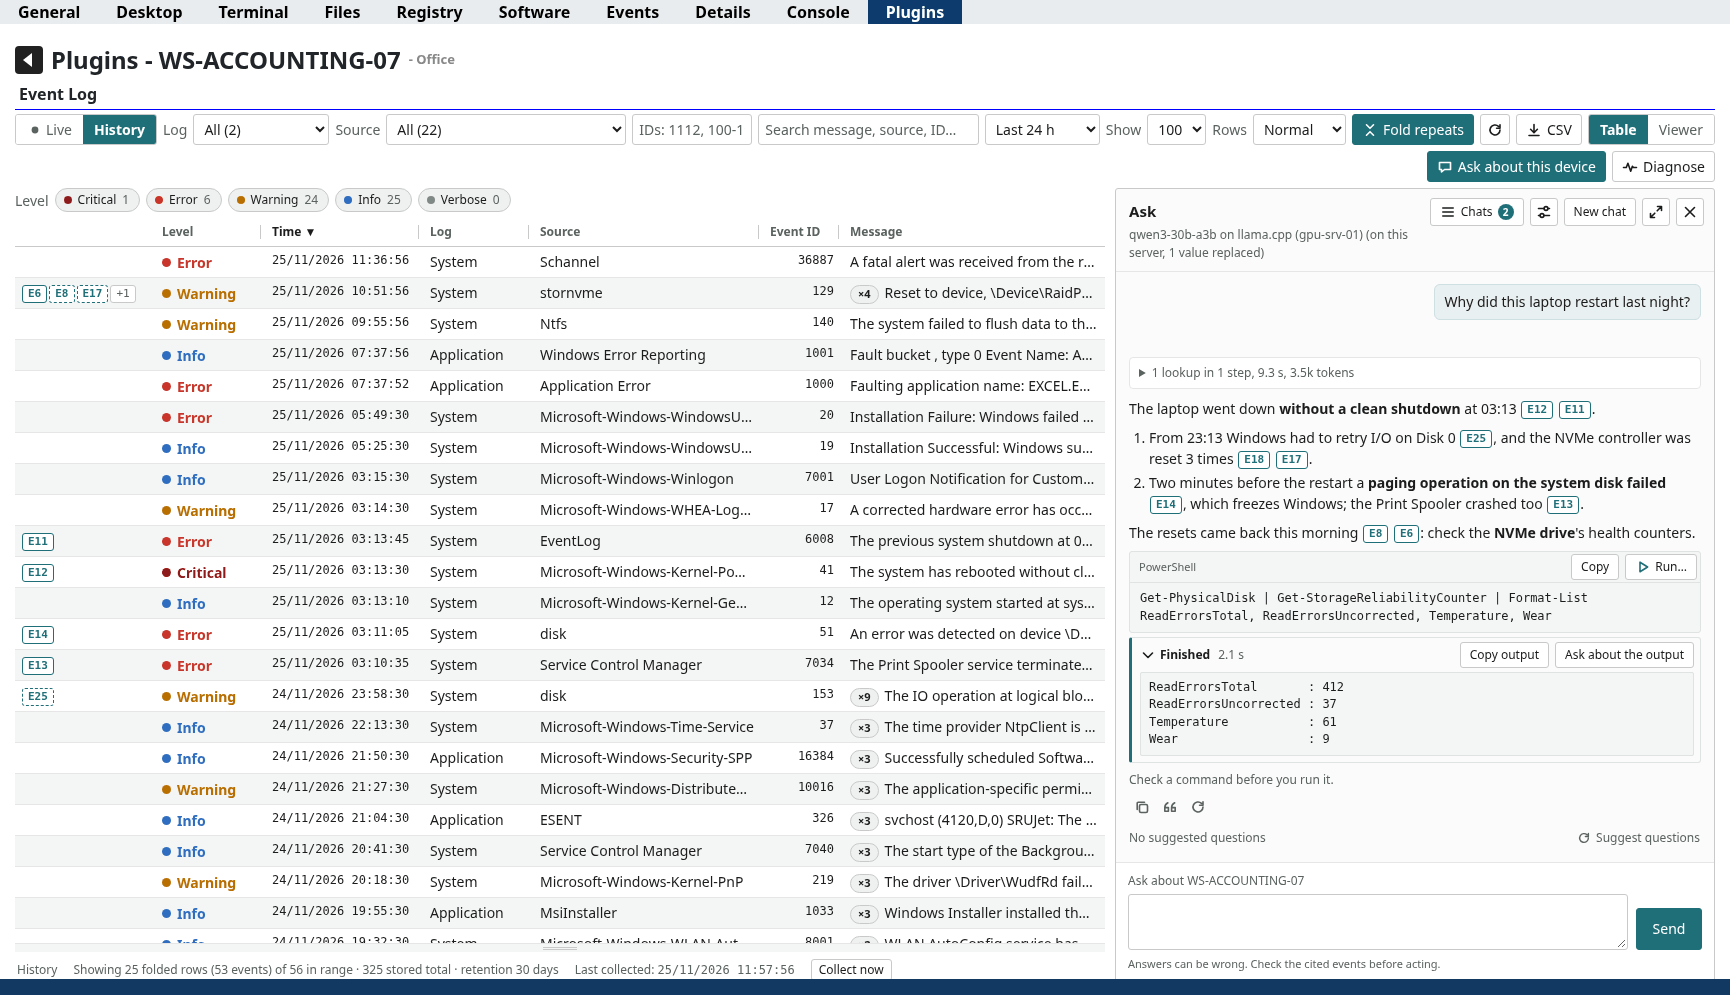
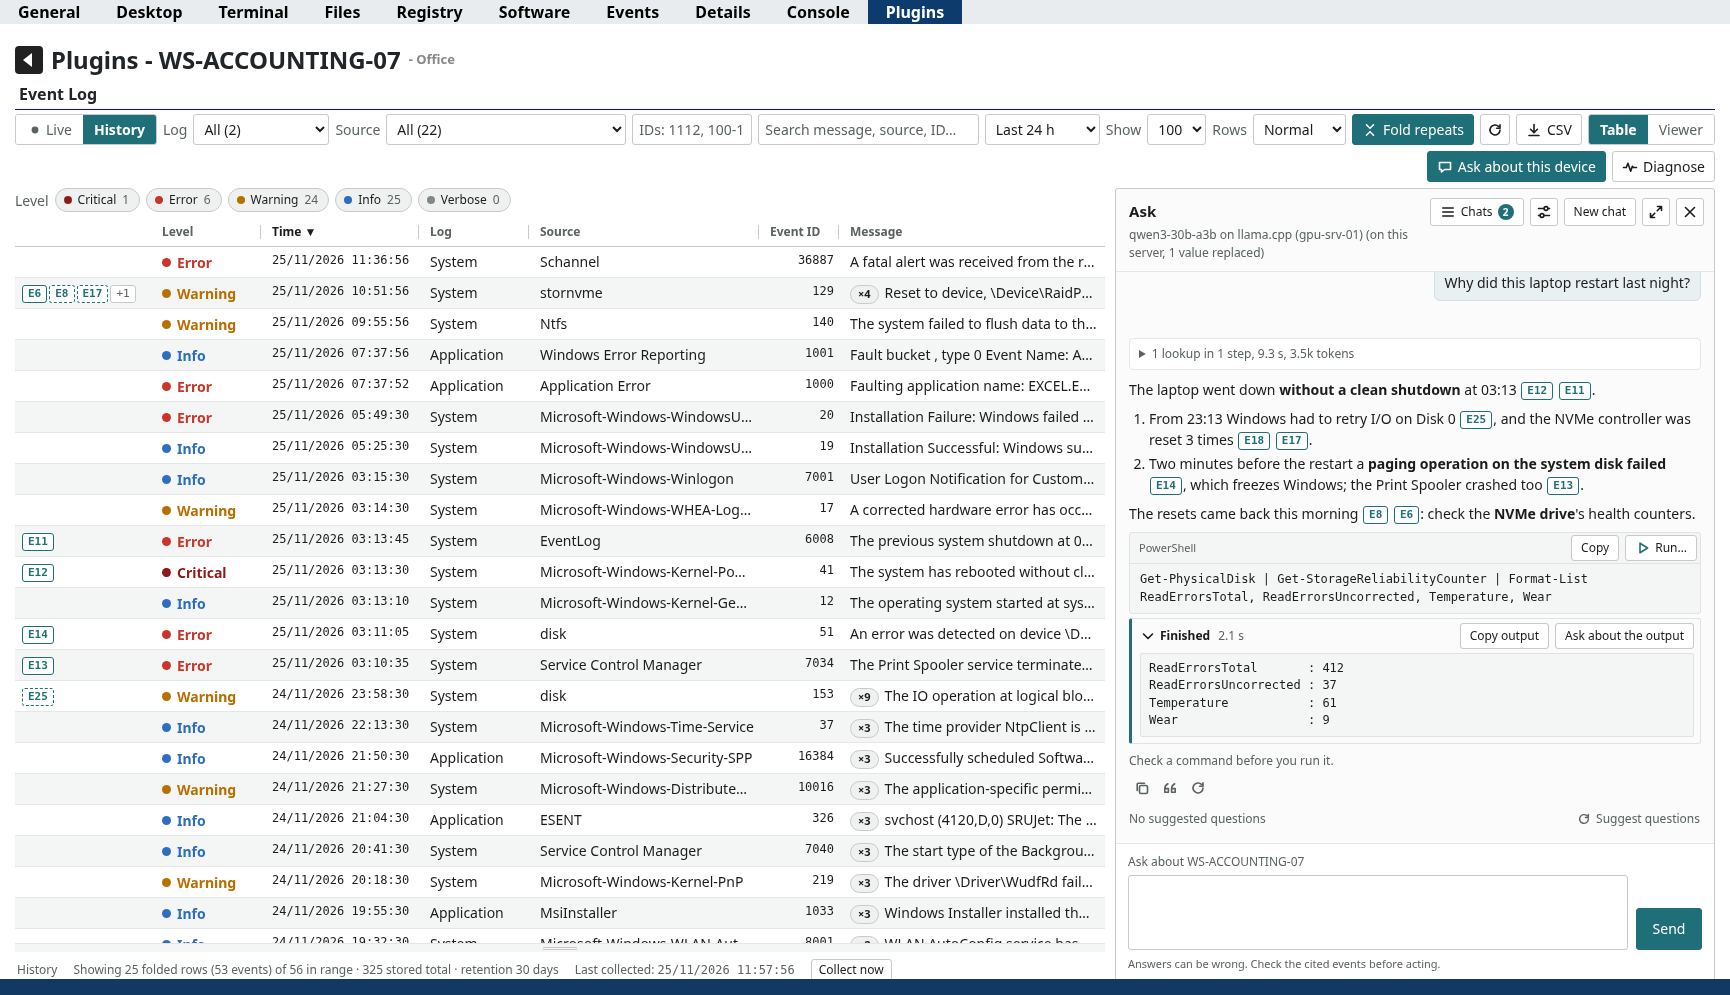
Assistant: answer field starts at three lines and grows with its text up to 40% of the panel (then scrolls), shrinks after Send; inline edit field the same; screenshots updated

Changed region(s): [[0.6555, 0.3427, 0.9988, 0.9035], [0.8116, 0.2804, 0.9988, 0.3116], [0.9052, 0.8101, 0.9676, 0.8724]]

diff --git a/ui_ai.js b/ui_ai.js
@@ -1600,6 +1600,7 @@ module.exports.attach = function (obj) {
         main.style.setProperty('--evl-ai-w', (st.ai.w || 400) + 'px');
         if (stack != was) ph.elFitHeight();
         ph.aiFitPanel();
+        ph.aiInFit();   // a new width wraps the text differently
     };
     // the Assistant is all this user has on this device: no event table, the panel is the page
     obj.aiOnly = function () {
@@ -1666,6 +1667,7 @@ module.exports.attach = function (obj) {
             g.setAttribute('aria-valuetext', h + ' pixels' + (uh ? '' : ', fits the window'));
         }
         var rb = Q('evlAiHReset'); if (rb) rb.hidden = !uh;
+        ph.aiInFit();   // the Reset button may have wrapped the line below the composer
     };
     // set the height and keep the conversation pinned to its end if it was there (streaming keeps following)
     obj.aiApplyH = function (h) {
@@ -1674,6 +1676,7 @@ module.exports.attach = function (obj) {
         var stick = log ? (log.scrollHeight - log.scrollTop - log.clientHeight < 48) : false;
         el.style.height = h + 'px';
         if (stick && log) log.scrollTop = log.scrollHeight;
+        pluginHandler.eventlog.aiInFit();   // its maximum depends on the panel's height
     };
     // Dragging: the bottom edge follows the pointer, measured from the panel's top where it is now (the page may scroll
     // meanwhile) and keeping where the grip was grabbed; nothing else sets the height until the pointer is released
@@ -1728,7 +1731,7 @@ module.exports.attach = function (obj) {
         try { g.setPointerCapture(ev.pointerId); } catch (e) { }
         g.classList.add('active');
         var x0 = ev.clientX, w0 = panel.getBoundingClientRect().width, mw = main.getBoundingClientRect().width, w = 0;
-        var mv = function (e) { w = Math.round(Math.max(300, Math.min(Math.min(760, mw - 380), w0 - (e.clientX - x0)))); main.style.setProperty('--evl-ai-w', w + 'px'); };
+        var mv = function (e) { w = Math.round(Math.max(300, Math.min(Math.min(760, mw - 380), w0 - (e.clientX - x0)))); main.style.setProperty('--evl-ai-w', w + 'px'); ph.aiInFit(); };
         var up = function () {
             g.removeEventListener('pointermove', mv); g.removeEventListener('pointerup', up); g.removeEventListener('pointercancel', up);
             g.classList.remove('active');
@@ -1848,6 +1851,7 @@ module.exports.attach = function (obj) {
         var top = log.scrollTop;
         log.setAttribute('aria-busy', ph.aiBusy(c) ? 'true' : 'false');
         log.innerHTML = ph.aiLogHtml(c);
+        var ed = Q('evlAiEd'); if (ed) ph.aiInFit(ed);
         ph.aiFuTitles(log);
         ph.aiCmdDress(log, c);
         var turns = log.querySelectorAll('.evlAiTurn'), lastEl = turns.length ? turns[turns.length - 1] : null;
@@ -1999,7 +2003,7 @@ module.exports.attach = function (obj) {
     obj.aiEditHtml = function (c, t) {
         var ph = pluginHandler.eventlog, a = ph.elState().ai, later = ph.aiLaterN(c, t), v = (a.actDraft != null) ? a.actDraft : t.q;
         return '<div class="evlAiQW edit" role=group aria-label="Edit the question"><label class=evlSr for=evlAiEd>Edit the question</label>' +
-               '<textarea id=evlAiEd class=evlAiEdIn rows=3 maxlength=4000 oninput="pluginHandler.eventlog.elState().ai.actDraft=String(this.value).slice(0,4000)" onkeydown="return pluginHandler.eventlog.aiEditKey(event,\'' + c.id + '\',' + t.n + ')">' + ph.aiEsc(v) + '</textarea>' +
+               '<textarea id=evlAiEd class=evlAiEdIn rows=3 maxlength=4000 oninput="pluginHandler.eventlog.elState().ai.actDraft=String(this.value).slice(0,4000);pluginHandler.eventlog.aiInFit(this)" onkeydown="return pluginHandler.eventlog.aiEditKey(event,\'' + c.id + '\',' + t.n + ')">' + ph.aiEsc(v) + '</textarea>' +
                '<p class=evlAiEdNote>' + (later ? 'Sending replaces its answer and removes the ' + (later == 1 ? 'later message' : later + ' later messages') + '.' : 'Sending replaces its answer.') + '</p>' +
                '<div class=evlAiActs><button class="evlBtn mini" onclick="return pluginHandler.eventlog.aiMsgCancel()">Cancel</button>' +
                '<button class="evlBtn mini on" onclick="return pluginHandler.eventlog.aiEditSave(\'' + c.id + '\',' + t.n + ')">Save &amp; send</button></div></div>';
@@ -2136,7 +2140,7 @@ module.exports.attach = function (obj) {
         if (!Q('evlAiIn')) {
             var acc = ph.elAccess || {};
             ft.innerHTML = '<div id=evlAiPeekSlot></div><label for=evlAiIn id=evlAiLbl class=evlAiLbl></label>' +
-                '<div class=evlAiRow><textarea id=evlAiIn rows=2 maxlength=4000 onkeydown="return pluginHandler.eventlog.aiKey(event)" oninput="pluginHandler.eventlog.aiDraft(this)"></textarea>' +
+                '<div class=evlAiRow><textarea id=evlAiIn rows=3 maxlength=4000 onkeydown="return pluginHandler.eventlog.aiKey(event)" oninput="pluginHandler.eventlog.aiDraft(this)"></textarea>' +
                 '<button id=evlAiSend class="evlBtn on" onclick="return pluginHandler.eventlog.aiSubmit()">Send</button></div>' +
                 '<div class=evlAiDisc><span>Answers can be wrong. Check the cited events before acting.' + ((function (r) { var q = (typeof r == 'number') ? r : ((r != null && typeof r.questions == 'number') ? r.questions : null); return (q != null && q <= 10) ? ' ' + q + ' questions left today.' : ''; })(acc.remaining)) + '</span>' +
                 '<button id=evlAiHReset class=evlLinkBtn hidden title="Fit the panel to the window again" onclick="return pluginHandler.eventlog.aiHGripReset()">Reset panel height</button></div>';
@@ -2144,6 +2148,7 @@ module.exports.attach = function (obj) {
         }
         var ta = Q('evlAiIn');
         if (!ta.value && a.draft) ta.value = a.draft;   // the field was re-created behind our back (another plugin re-parsed the page)
+        ph.aiInFit(ta);
         // the list, the Diagnose setup or a saved chat still loading: Send starts a new chat (aiAsk)
         var lb = Q('evlAiLbl'), lt0 = ((a.hist || a.diagSetup || a.opening) && !busy) ? 'New chat about ' : 'Ask about ';
         if (lb && lb.textContent != lt0 + name) lb.textContent = lt0 + name;
@@ -2165,6 +2170,32 @@ module.exports.attach = function (obj) {
         var ph = pluginHandler.eventlog;
         ph.elState().ai.draft = String(el.value || '').slice(0, 4000);
         ph.aiDraftStore(true);
+        ph.aiInFit(el);
+    };
+    // The composer and the question editor grow with their text from their rows (3 lines) to a maximum, then scroll:
+    // the composer up to 40% of the panel's height (at most 260 px) while the conversation keeps 100 px, the editor up
+    // to 260 px; never below the rows. The conversation keeps its place (or its end). No layout (hidden tab): nothing
+    // changes until the next call.
+    obj.aiInFit = function (ta) {
+        ta = ta || Q('evlAiIn');
+        if (!ta || !ta.offsetHeight) return false;
+        var comp = (ta.id == 'evlAiIn'), panel = Q('evlAi'), pnH = (comp && panel) ? panel.clientHeight : 0;
+        var log = Q('evlAiLog'), key = ta.value + '|' + ta.clientWidth + '|' + pnH + '|' + (log ? log.clientHeight : 0);
+        if (ta._evlFit === key && ta.style.height) return false;
+        var top = log ? log.scrollTop : 0, stick = log ? (log.scrollHeight - top - log.clientHeight < 48) : false, tsc = ta.scrollTop;
+        var max = pnH ? Math.min(260, Math.floor(pnH * 0.4)) : 260;
+        if (comp && log && log.clientHeight) max = Math.min(max, ta.offsetHeight + log.clientHeight - 100);   // the space both share now
+        ta.style.overflowY = 'hidden';
+        ta.style.height = 'auto';
+        var base = ta.offsetHeight, need = ta.scrollHeight + (ta.offsetHeight - ta.clientHeight);
+        max = Math.max(base, max);
+        var h = Math.max(base, Math.min(need, max));
+        ta.style.height = h + 'px';
+        ta.style.overflowY = (need > max) ? 'auto' : 'hidden';
+        ta._evlFit = ta.value + '|' + ta.clientWidth + '|' + pnH + '|' + (log ? log.clientHeight : 0);
+        ta.scrollTop = (ta.selectionEnd === ta.value.length) ? ta.scrollHeight : tsc;   // the cursor at the end stays in view
+        if (log) log.scrollTop = stick ? log.scrollHeight : top;
+        return true;
     };
     // the draft of this device into sessionStorage (later: after a pause in typing); an empty draft removes it
     obj.aiDraftStore = function (later) {
@@ -2201,7 +2232,7 @@ module.exports.attach = function (obj) {
         // loading, the question starts a new chat
         var shown = !a.hist && !a.diagSetup && !a.opening;
         a.draft = ''; ph.aiDraftStore();
-        var ta = Q('evlAiIn'); if (ta) ta.value = '';
+        var ta = Q('evlAiIn'); if (ta) { ta.value = ''; ph.aiInFit(ta); }
         a.hist = false; a.delAsk = null; a.diagSetup = false; a.act = null; a.opening = null;
         // a diagnosis chat takes questions once its diagnosis is there
         var chat = shown && ph.aiIsChat(c) && !(c.mode == 'diagnose' && c.turns[0].status != 'done');
@@ -2600,7 +2631,7 @@ module.exports.attach = function (obj) {
         a.open = true; a.diagSetup = false; a.hist = false;
         ph.aiRenderPanel();
         var ta = Q('evlAiIn');
-        if (ta) { ta.value = a.draft; ta.focus(); try { ta.setSelectionRange(ta.value.length, ta.value.length); } catch (e) { } }
+        if (ta) { ta.value = a.draft; ta.focus(); try { ta.setSelectionRange(ta.value.length, ta.value.length); } catch (e) { } ph.aiInFit(ta); }
         return false;
     };
 
@@ -3438,7 +3469,7 @@ module.exports.attach = function (obj) {
 @media (hover: none), (max-width: 700px) { #pluginEventLog .evlAiMsgActs { opacity:1; } }
 #pluginEventLog .evlAiMsgActs.a { margin-top:-4px; }
 #pluginEventLog .evlAiQW.edit { align-self:stretch; max-width:none; align-items:stretch; gap:6px; }
-#pluginEventLog .evlAiEdIn { font:inherit; border:1px solid var(--evl-acc); background:var(--evl-input); color:var(--evl-ink); border-radius:6px; padding:7px 10px; line-height:1.45; resize:vertical; min-height:60px; max-height:260px; box-sizing:border-box; width:100%; }
+#pluginEventLog .evlAiEdIn { font:inherit; border:1px solid var(--evl-acc); background:var(--evl-input); color:var(--evl-ink); border-radius:6px; padding:7px 10px; line-height:1.45; resize:none; overflow-y:hidden; min-height:60px; max-height:260px; box-sizing:border-box; width:100%; }
 #pluginEventLog .evlAiEdIn:focus-visible { outline:2px solid var(--evl-acc); outline-offset:1px; }
 #pluginEventLog .evlAiEdNote { margin:0; font-size:12px; color:var(--evl-muted); }
 #pluginEventLog .evlAiQW.edit .evlAiActs { justify-content:flex-end; }
@@ -3581,7 +3612,7 @@ body.night #pluginEventLog .evlAiPop { box-shadow:0 10px 28px rgba(0,0,0,.75); b
 #pluginEventLog .evlAiFt { flex:none; border-top:1px solid var(--evl-line2); padding:9px 12px 8px; background:var(--evl-bg); }
 #pluginEventLog .evlAiLbl { display:block; font-size:12px; color:var(--evl-muted); margin:0 0 4px; font-weight:normal; }
 #pluginEventLog .evlAiRow { display:flex; gap:8px; align-items:flex-end; }
-#pluginEventLog .evlAiRow textarea { flex:1 1 auto; min-width:0; font:inherit; border:1px solid var(--evl-line); background:var(--evl-input); color:var(--evl-ink); border-radius:3px; padding:6px 8px; resize:vertical; min-height:42px; max-height:220px; box-sizing:border-box; }
+#pluginEventLog .evlAiRow textarea { flex:1 1 auto; min-width:0; font:inherit; border:1px solid var(--evl-line); background:var(--evl-input); color:var(--evl-ink); border-radius:3px; padding:6px 8px; line-height:1.45; resize:none; overflow-y:hidden; min-height:42px; max-height:260px; box-sizing:border-box; }
 #pluginEventLog .evlAiRow textarea:focus-visible { outline:2px solid var(--evl-acc); outline-offset:-1px; }
 #pluginEventLog .evlAiRow .evlBtn { min-height:42px; min-width:66px; }
 #pluginEventLog .evlAiDisc { font-size:11px; color:var(--evl-muted); margin-top:6px; line-height:1.4; display:flex; align-items:baseline; gap:10px; }
@@ -3879,7 +3910,7 @@ body.night #evlAiDlg {
         'aiTurnHtml', 'aiDoneBody',
         'aiCanEdit', 'aiLaterN', 'aiMsgIndex', 'aiActBtn', 'aiQActsHtml', 'aiAActsHtml', 'aiEditHtml', 'aiConfirmHtml', 'aiTurnOf', 'aiMsgAct', 'aiMsgCancel', 'aiMsgYes',
         'aiEditSave', 'aiEditKey', 'aiTurnsCut', 'aiMsgRun', 'onAiChatEdited',
-        'aiRenderComposer', 'aiKey', 'aiDraft', 'aiDraftStore', 'aiSubmit', 'aiAsk', 'aiFollow', 'aiNewChat', 'aiPrefill', 'aiQuoteSync', 'aiQuoteSel', 'aiQuoteInsert',
+        'aiRenderComposer', 'aiKey', 'aiDraft', 'aiInFit', 'aiDraftStore', 'aiSubmit', 'aiAsk', 'aiFollow', 'aiNewChat', 'aiPrefill', 'aiQuoteSync', 'aiQuoteSel', 'aiQuoteInsert',
         'aiFuOpen', 'aiFuHtml', 'aiFuTitles', 'aiFuFocus', 'aiFuToggle', 'aiFuGen', 'onAiFollowups', 'aiFuFail',
         'aiGenInfo', 'aiGenModel', 'aiGenThinkOf', 'aiGenClean', 'aiGenOut', 'aiGenGet', 'aiGenSet', 'aiGenWord', 'aiGenTag', 'aiGenToggle', 'aiGenClose', 'aiGenOutside', 'aiGenKey', 'aiGenBlur',
         'aiGenHtml', 'aiGenRender', 'aiGenPlace', 'aiGenSync', 'aiGenThink', 'aiGenPick', 'aiGenTemp', 'aiGenTempReset',

diff --git a/test/ui-ai.test.js b/test/ui-ai.test.js
@@ -1873,6 +1873,107 @@ test('drafts: kept per device in sessionStorage (at most 4000 characters), resto
     if (ph._aiDog) w.clearInterval(ph._aiDog);
 });
 
+// ---- composer height: grows with its text (aiInFit) ----------------------------------------------------------------
+// jsdom has no layout: every textarea gets one here. Its rows give `base` px (3 lines), each line of text 20 px plus
+// 12 px padding and a 2 px border; a set height is what it is.
+function fakeTextareas(w, base) {
+    var P = w.HTMLTextAreaElement.prototype;
+    Object.defineProperty(P, 'offsetHeight', { configurable: true, get: function () { var h = this.style.height; return (!h || h == 'auto') ? (base[this.id] || 70) : parseFloat(h); } });
+    Object.defineProperty(P, 'clientHeight', { configurable: true, get: function () { return this.offsetHeight - 2; } });
+    Object.defineProperty(P, 'scrollHeight', { configurable: true, get: function () { return Math.max(this.offsetHeight - 2, String(this.value).split('\n').length * 20 + 12); } });
+}
+function setPx(el, prop, v) { Object.defineProperty(el, prop, { value: v, configurable: true }); }
+function lines(n) { var l = []; for (var i = 1; i <= n; i++) l.push('Line ' + i); return l.join('\n'); }
+
+test('composer: grows with its text from 3 lines to 40% of the panel (at most 260 px), then scrolls; back down after Send', { skip: SKIP }, function () {
+    var w = makeDom(), ph = w.ph, doc = w.document;
+    grant(w); loadHistory(w);
+    var c = liveChat(w, 'Why?', 'The drive **stalls** on hostPC01.\n\nSecond paragraph [E1].');
+    var ta = doc.getElementById('evlAiIn'), css = doc.getElementById('evlAiStyles').textContent;
+    assert.strictEqual(ta.getAttribute('rows'), '3');
+    assert.match(css, /\.evlAiRow textarea \{[^}]*line-height:1\.45; resize:none; overflow-y:hidden;[^}]*max-height:260px;/, 'no manual resize: the height follows the text');
+    assert.strictEqual(ph.aiInFit(), false, 'no layout: nothing changes');
+    assert.strictEqual(ta.style.height, '');
+    fakeTextareas(w, { evlAiIn: 70, evlAiEd: 80 });
+    setPx(doc.getElementById('evlAi'), 'clientHeight', 800);
+    assert.strictEqual(ph.aiInFit(), true);
+    assert.deepStrictEqual([ta.style.height, ta.style.overflowY], ['70px', 'hidden'], 'empty: its 3 rows');
+    assert.strictEqual(ph.aiInFit(), false, 'same text, width and panel: not measured again');
+    // typing (oninput -> aiDraft)
+    ta.value = 'One line'; ph.aiDraft(ta);
+    assert.strictEqual(ta.style.height, '70px', 'not below the rows');
+    ta.value = lines(5); ph.aiDraft(ta);
+    assert.strictEqual(ta.style.height, '114px');
+    ta.value = lines(30); ph.aiDraft(ta);
+    assert.deepStrictEqual([ta.style.height, ta.style.overflowY], ['260px', 'auto'], 'at most 260 px, then it scrolls');
+    // the maximum follows the panel's height (aiLayout runs on every resize), never below the rows
+    setPx(doc.getElementById('evlAi'), 'clientHeight', 400);
+    ph.aiLayout();
+    assert.strictEqual(ta.style.height, '160px', '40% of a 400 px panel');
+    setPx(doc.getElementById('evlAi'), 'clientHeight', 100);
+    ph.aiLayout();
+    assert.deepStrictEqual([ta.style.height, ta.style.overflowY], ['70px', 'auto']);
+    // and the conversation keeps 100 px of the space it shares with the composer
+    setPx(doc.getElementById('evlAi'), 'clientHeight', 800);
+    setPx(doc.getElementById('evlAiLog'), 'clientHeight', 160);
+    ph.aiInFit();
+    assert.strictEqual(ta.style.height, '130px', '70 + 160 - 100');
+    setPx(doc.getElementById('evlAiLog'), 'clientHeight', 0);
+    // deleting text shrinks it
+    ta.value = lines(2); ph.aiDraft(ta);
+    assert.deepStrictEqual([ta.style.height, ta.style.overflowY], ['70px', 'hidden']);
+    // a Quote
+    ta.value = ''; ta.setSelectionRange(0, 0);
+    ph.aiMsgAct(c.id, 1, 'quote', actBtn(doc, 1, 'quote'));
+    assert.strictEqual(ta.value.split('\n').length, 5);
+    assert.strictEqual(ta.style.height, '114px', 'grows with the quote');
+    ph.aiQuoteInsert(lines(40));
+    assert.strictEqual(ta.style.height, '260px');
+    // Send clears it: back to 3 lines
+    ph.aiSubmit();
+    assert.strictEqual(ta.value, '');
+    assert.deepStrictEqual([ta.style.height, ta.style.overflowY], ['70px', 'hidden'], 'after Send');
+    if (ph._aiDog) w.clearInterval(ph._aiDog);
+});
+
+test('composer: fits a prefilled question, a restored draft and a shell put back after a refresh; the editor grows too', { skip: SKIP }, function () {
+    var w = makeDom(), ph = w.ph, doc = w.document;
+    grantSaved(w); loadHistory(w);
+    fakeTextareas(w, { evlAiIn: 70, evlAiEd: 80 });
+    var c = liveChat(w, 'Why?', 'The drive stalls [E1].');
+    setPx(doc.getElementById('evlAi'), 'clientHeight', 800);
+    var ta = doc.getElementById('evlAiIn');
+    // Ask about a cause / Continue in Ask (aiPrefill)
+    ph.aiPrefill(lines(6));
+    assert.strictEqual(doc.getElementById('evlAiIn'), ta);
+    assert.strictEqual(ta.style.height, '134px');
+    // a draft into a re-created field (another plugin re-parsed the page)
+    ph.st.ai.draft = lines(4);
+    w.QH('evlAiFt', '');
+    ph.aiRenderComposer();
+    ta = doc.getElementById('evlAiIn');
+    assert.deepStrictEqual([ta.value, ta.style.height], [lines(4), '94px']);
+    // the shell put back (elRestoreView): fitted to the panel as it is now
+    ta.value = lines(30); ph.aiDraft(ta);
+    assert.strictEqual(ta.style.height, '260px');
+    setPx(doc.getElementById('evlAi'), 'clientHeight', 500);
+    ph.elRestoreView(doc.getElementById('evlWrap'));
+    assert.strictEqual(ta.style.height, '200px');
+    // the inline editor of a question: from its rows up to 260 px whatever the panel's height; no manual resize
+    ta.value = ''; ph.aiDraft(ta);
+    setPx(doc.getElementById('evlAi'), 'clientHeight', 400);
+    ph.aiMsgAct(c.id, 1, 'edit');
+    var ed = doc.getElementById('evlAiEd');
+    assert.match(ed.getAttribute('oninput'), /aiInFit\(this\)/);
+    assert.strictEqual(ed.style.height, '80px', 'fitted when shown');
+    ed.value = lines(8); ph.aiInFit(ed);
+    assert.strictEqual(ed.style.height, '174px');
+    ed.value = lines(30); ph.aiInFit(ed);
+    assert.deepStrictEqual([ed.style.height, ed.style.overflowY], ['260px', 'auto'], 'not 40% of the panel');
+    assert.match(doc.getElementById('evlAiStyles').textContent, /\.evlAiEdIn \{[^}]*resize:none; overflow-y:hidden; min-height:60px; max-height:260px;/);
+    if (ph._aiDog) w.clearInterval(ph._aiDog);
+});
+
 // ---- model choice and Max (v0.8.0) ------------------------------------------------------------------------------
 var MODELS = [{ id: 'qwen3:14b', label: 'qwen3:14b', 'default': true, thinkingLevels: ['low', 'medium', 'high'], thinkingVerified: true },
               { id: 'gpt-oss:20b', label: 'gpt-oss:20b', 'default': false, thinkingLevels: ['low', 'medium', 'high', 'max'], thinkingVerified: false },

diff --git a/eventlog.js b/eventlog.js
@@ -876,6 +876,7 @@ body.night #pluginEventLog {
             ph._evlFocus = { el: f.el, s: s, e: e };
         }
         if (ph._aiRO) { try { ph._aiRO.disconnect(); ph._aiRO.observe(w); var tb = w.querySelector('#evlToolbar'); if (tb) ph._aiRO.observe(tb); } catch (x) { } }
+        if (typeof ph.aiInFit == 'function') ph.aiInFit();   // the composer's height for its text and the panel as it is now
     };
     // toolbar icons: the Assistant's metrics (16 px, stroke 1.6, round caps)
     obj.elIcon = function(name) {

diff --git a/changelog.md b/changelog.md
@@ -7,6 +7,8 @@ The format is based on [Keep a Changelog](https://keepachangelog.com/en/1.0.0/).
 - None. Please feel free to submit an issue via [GitHub](https://github.com/ryanblenis/MeshCentral-EventLog) if you find anything.
 
 ## [Unreleased]
+### Changed
+- Assistant: the answer field starts at three lines and grows with its text (typing, quotes, restored drafts) up to 40% of the panel, then scrolls; it shrinks again after Send. The inline edit field does the same
 
 ## [0.8.1] - 2026-11-25
 ### Fixed
